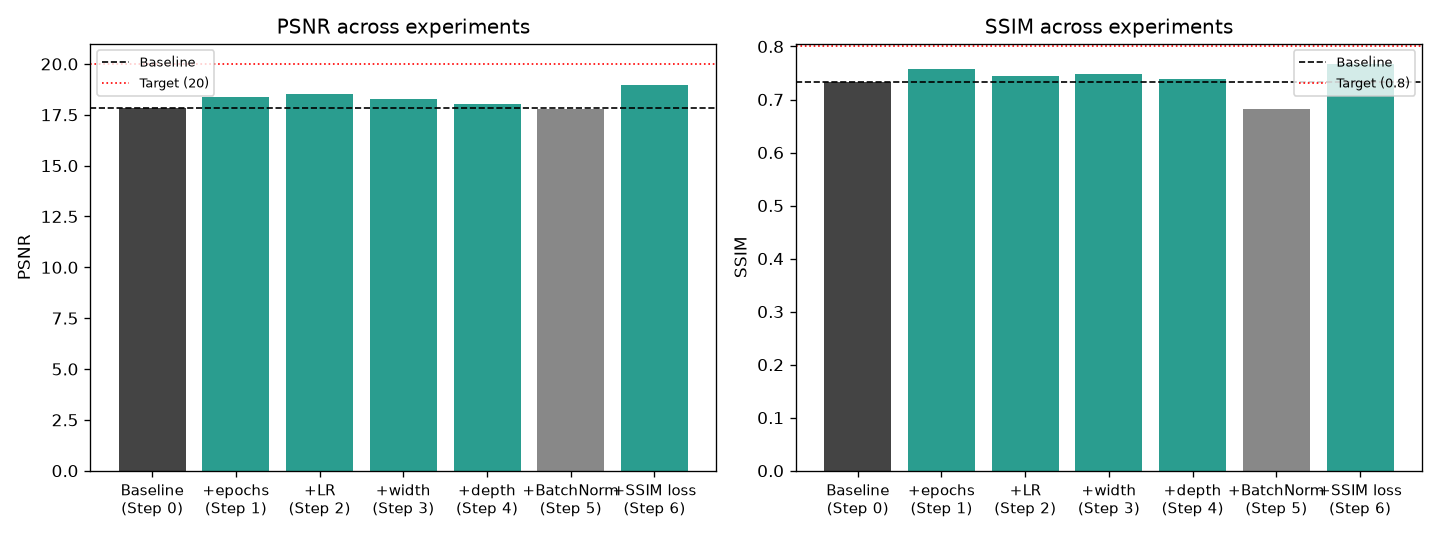
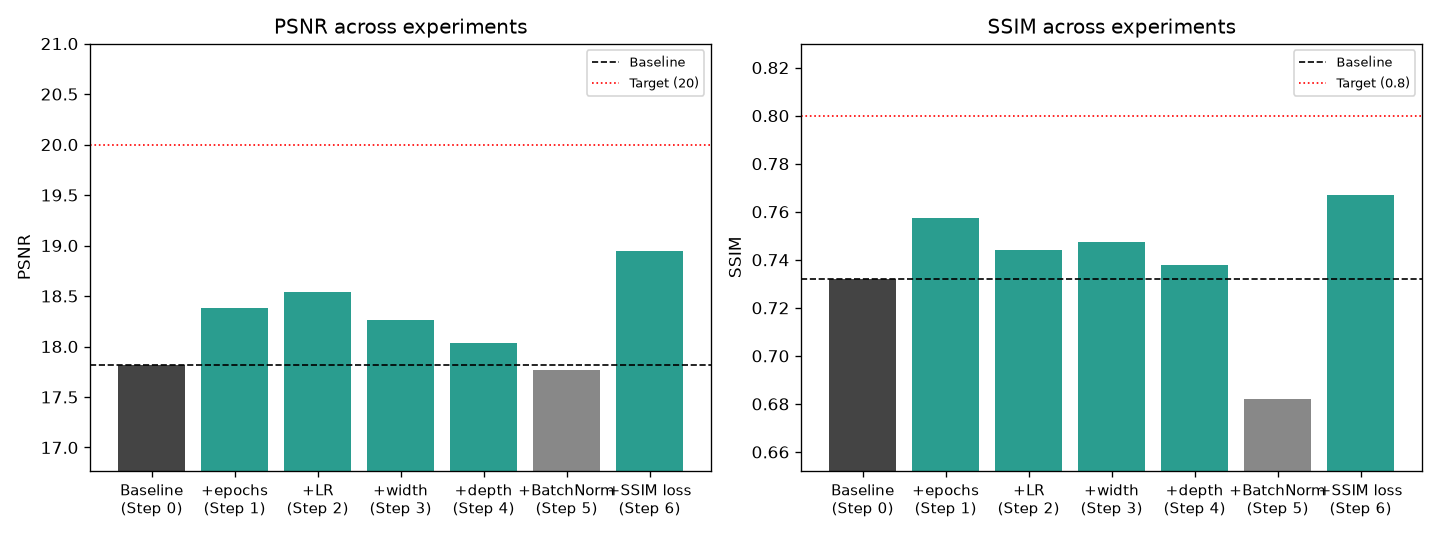
Zoom chart y-axis to data range so differences between steps are visible

diff --git a/chart.py b/chart.py
@@ -36,6 +36,9 @@ ax1.set_xticklabels(labels, fontsize=9)
 ax1.set_ylabel("PSNR")
 ax1.set_title("PSNR across experiments")
 ax1.legend(fontsize=8)
+psnr_lo = min(psnr + [PSNR_TARGET]) - 1
+psnr_hi = max(psnr + [PSNR_TARGET]) + 1
+ax1.set_ylim(psnr_lo, psnr_hi)
 
 colors2 = ["#444444"] + ["#2a9d8f" if v >= ssim[0] else "#888888" for v in ssim[1:]]
 ax2.bar(x, ssim, color=colors2)
@@ -46,6 +49,9 @@ ax2.set_xticklabels(labels, fontsize=9)
 ax2.set_ylabel("SSIM")
 ax2.set_title("SSIM across experiments")
 ax2.legend(fontsize=8)
+ssim_lo = min(ssim + [SSIM_TARGET]) - 0.03
+ssim_hi = max(ssim + [SSIM_TARGET]) + 0.03
+ax2.set_ylim(ssim_lo, ssim_hi)
 
 plt.tight_layout()
 plt.savefig("progress_chart.png", dpi=120)
